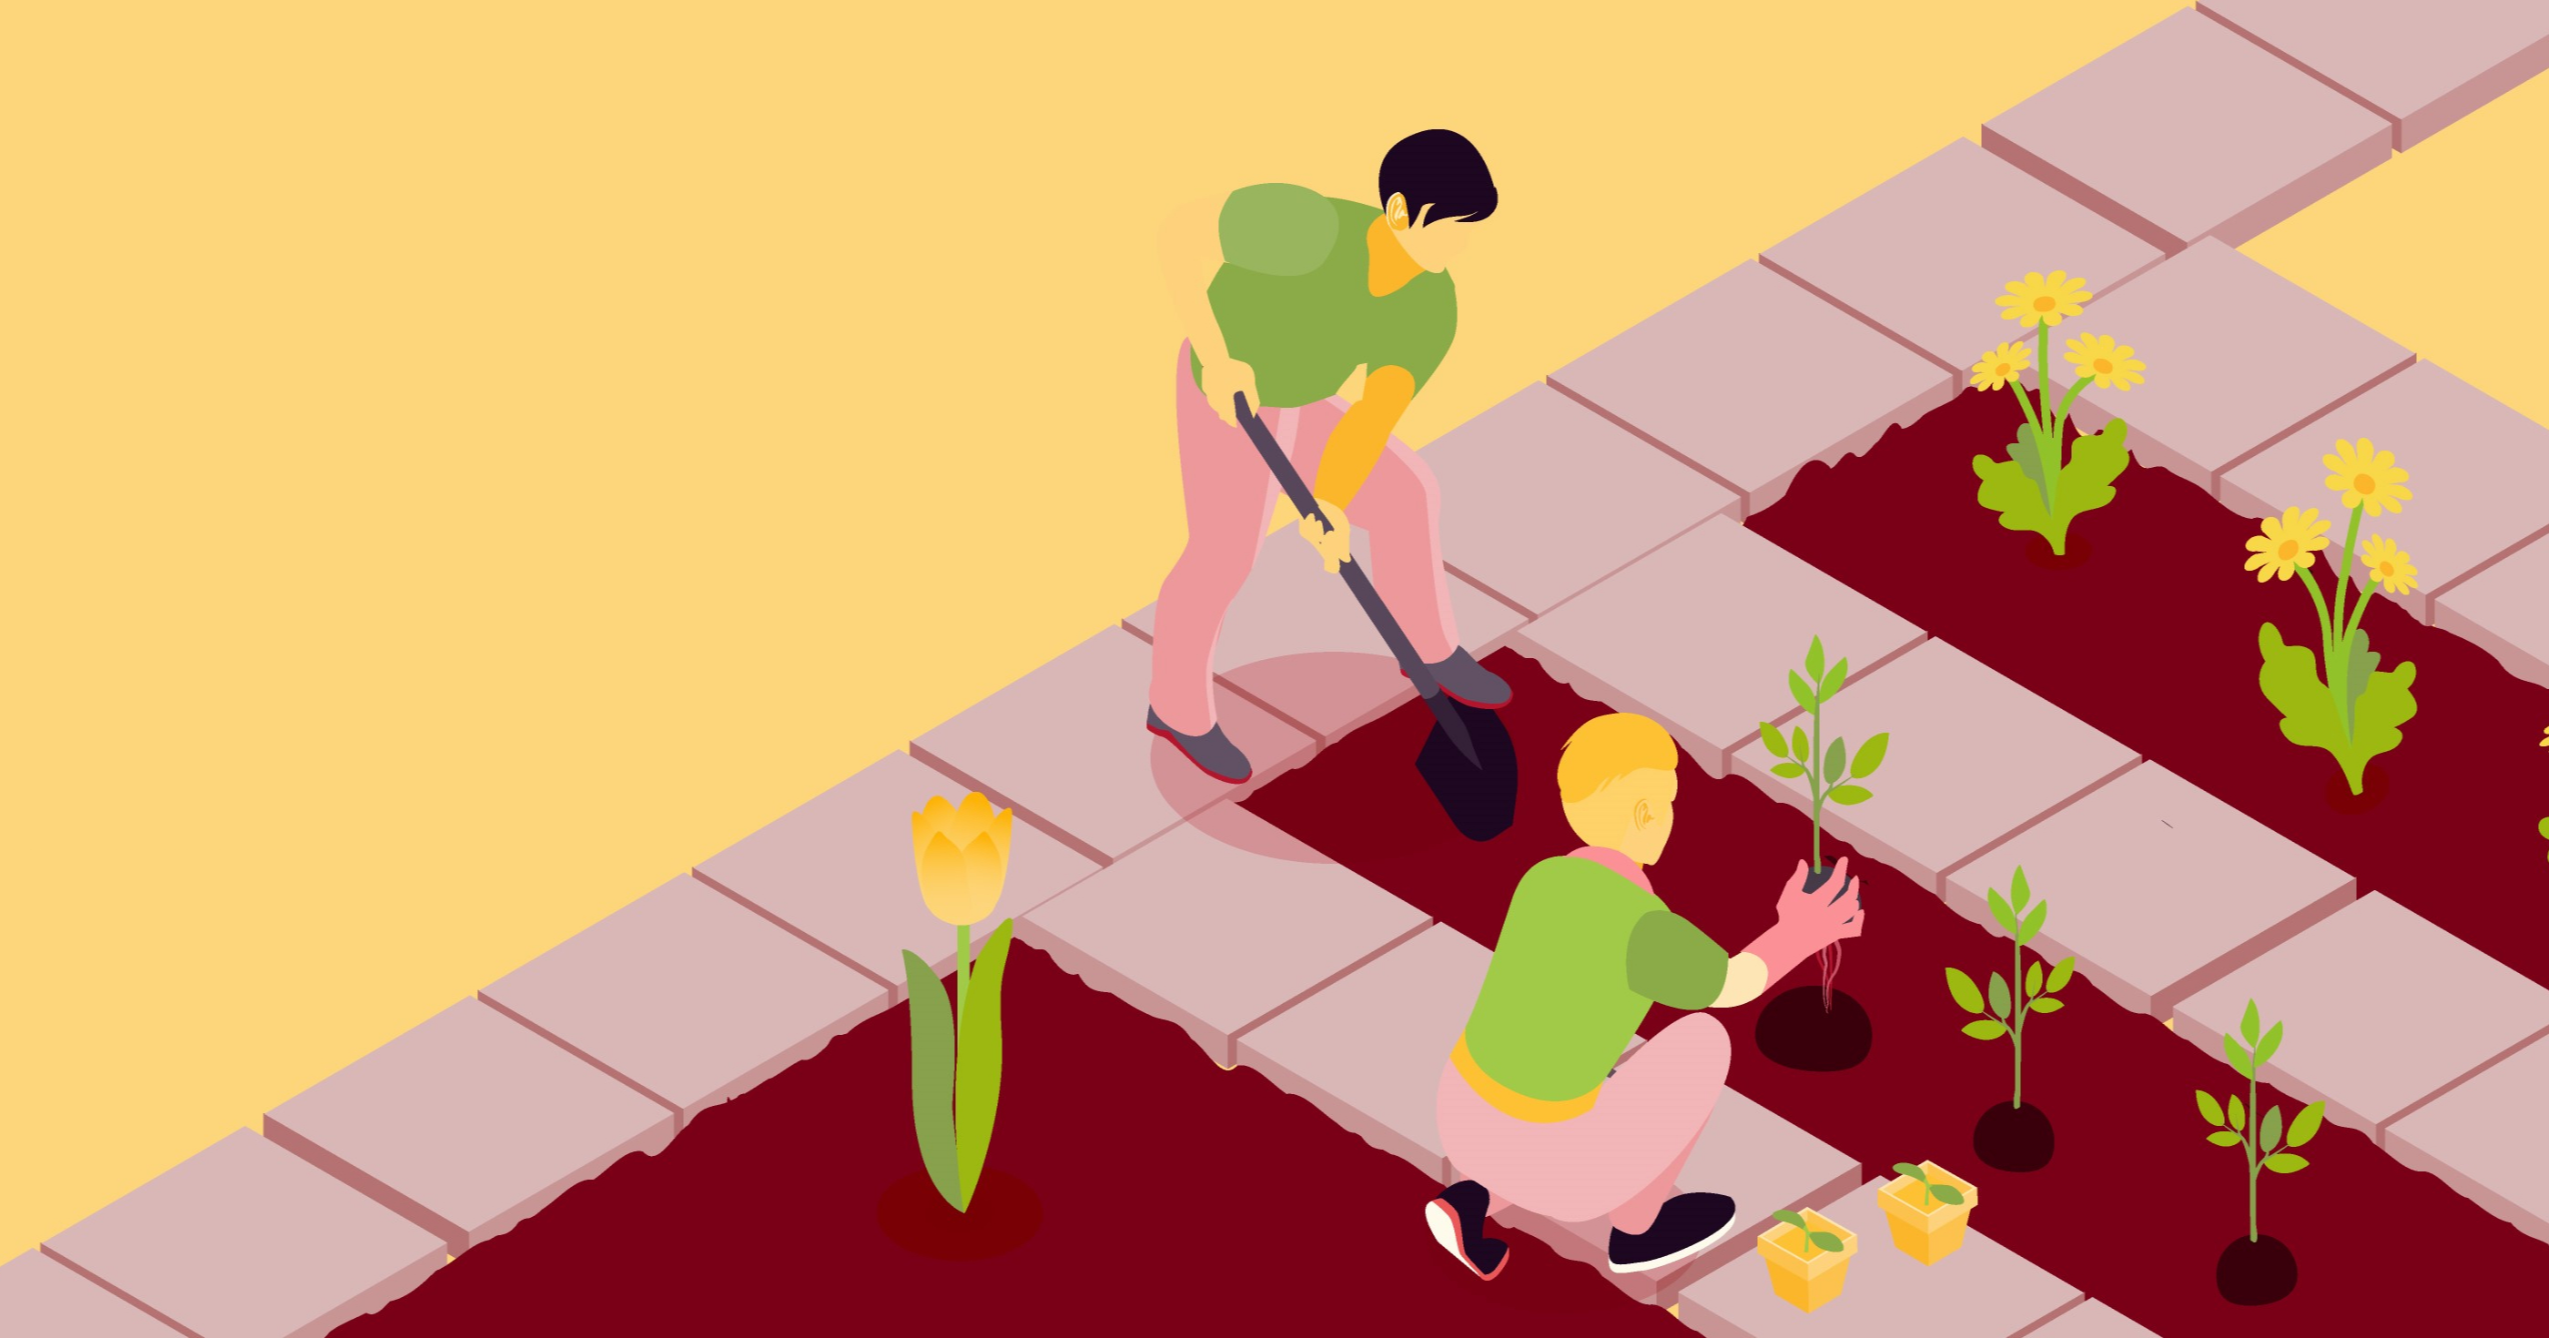
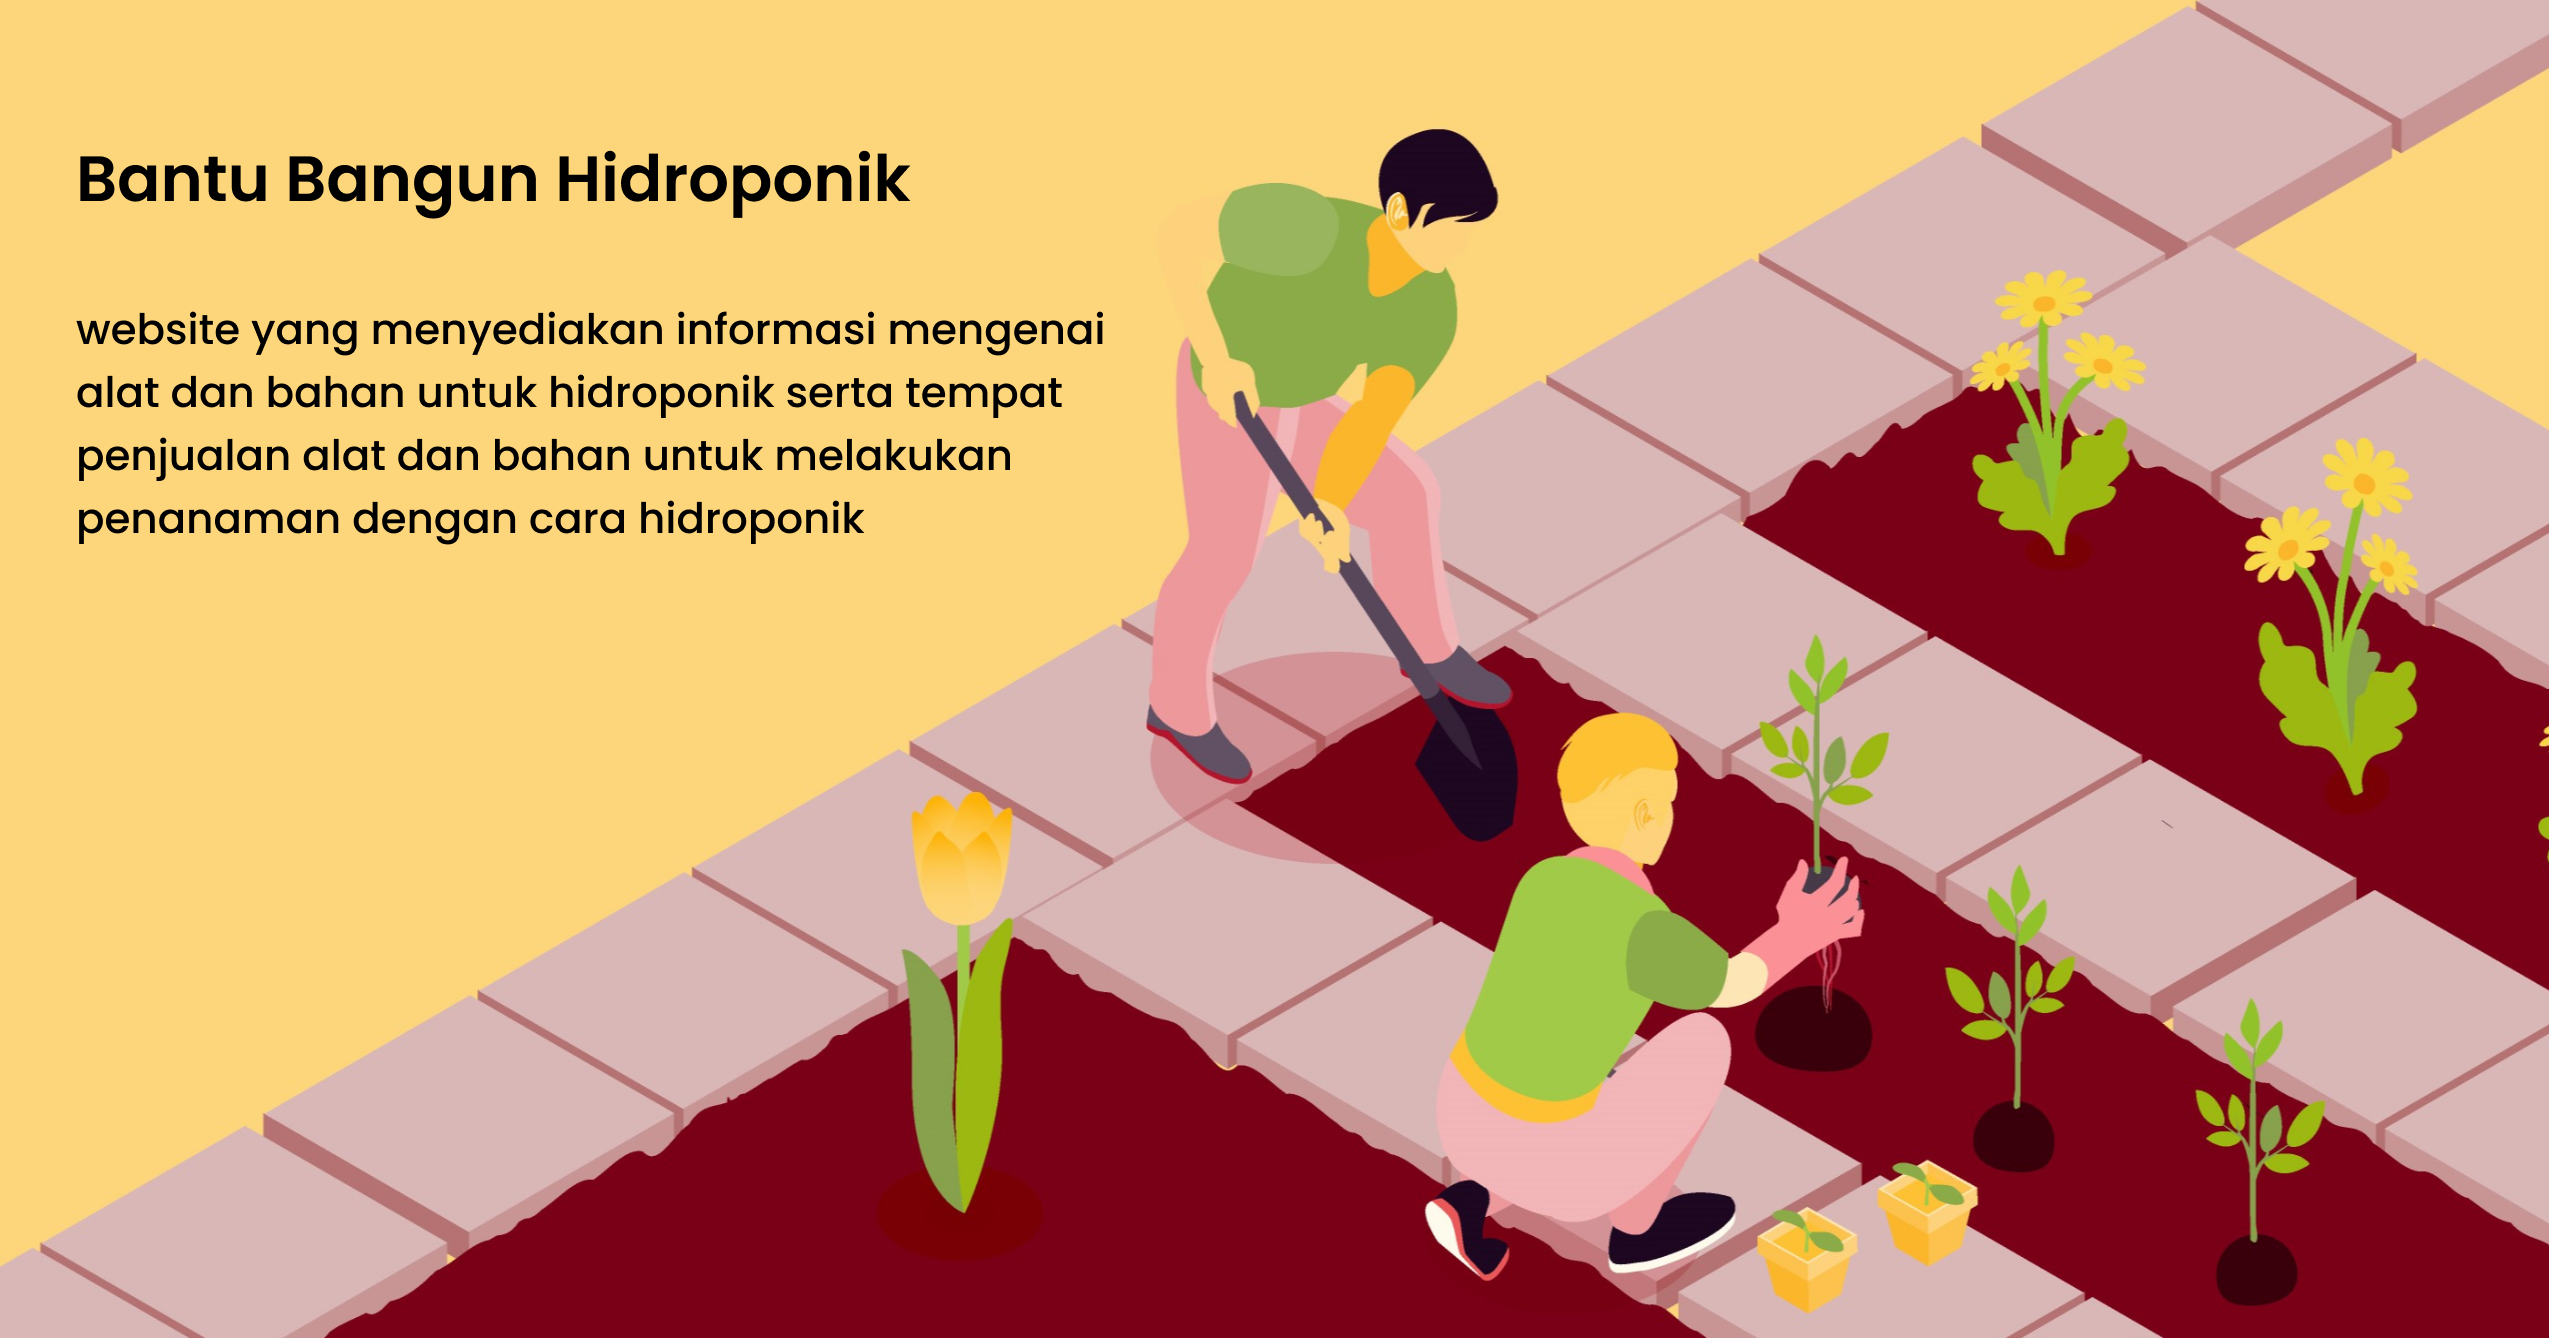
optimizing home page image

Changed region(s): [[0.031, 0.2145, 0.4339, 0.3064], [0.031, 0.3371, 0.4029, 0.3984], [0.031, 0.1226, 0.3719, 0.1839]]

diff --git a/components/layout/home.js b/components/layout/home.js
@@ -7,6 +7,7 @@ import Modal from '../ui/Modal';
 import { useRouter } from "next/router";
 import { useSelector } from "react-redux";
 import { useSession } from "next-auth/client";
+import Image from 'next/image';
 
 function Home(props) {
 
@@ -41,13 +42,18 @@ function Home(props) {
                 <section className={classes.firstRow}>
                     <CategoryCard />
                     <div className={classes.banner}>
-                        <h2>Bantu Bangun Hidroponik</h2>
-                        <p>website yang menyediakan informasi mengenai alat dan bahan untuk hidroponik serta tempat penjualan alat dan bahan untuk melakukan penanaman dengan cara hidroponik</p>
+                        <div className={classes.bannerFullImg}>
+                            <Image src={'/images/Banner-1.png'} alt='BBH Banner' layout='fill' priority />
+                        </div>
                     </div>
                 </section>
                 <ItemCarousel key='Popular Product' title='Popular Product' type='popular' />
                 <ItemCarousel key='More than just low prices' title='More than just low prices' type='low-price' />
-                <div className={classes.bannerFull}></div>
+                <div className={classes.bannerFull}>
+                    <div className={classes.bannerFullImg}>
+                        <Image src={'/images/Banner-2.png'} alt='BBH Banner' layout='fill' />
+                    </div>
+                </div>
                 <BlogCarousel />
             </div>
         </Fragment>

diff --git a/components/layout/home.module.css b/components/layout/home.module.css
@@ -28,16 +28,36 @@
 .banner {
     width: 70%;
     border-radius: 20px;
-    padding: 1rem;
-    padding-right: min(70%, 30rem);
-    background-image: url('../../public/images/Banner-1.png');
-    background-size: cover;
+    display: flex;
+    flex-direction: column;
+    z-index: 2;
+}
+
+.banner img {
+    border-radius: 20px;
+}
+
+.bannerContent {
+    margin-top: -50%;
+    margin-left: 2rem;
+    z-index: 3;
+    width: 40%;
 }
 
 .bannerFull {
     width: 100%;
     border-radius: 20px;
     height: 25rem;
-    background-image: url('../../public/images/Banner-2.png');
-    background-size: cover;
+}
+
+.bannerFullImg {
+    position: relative;
+    width: 100%;
+    height: 100%;
+}
+
+.bannerFullImg img {
+    width: 100%;
+    height: 100%;
+    border-radius: 20px;
 }
